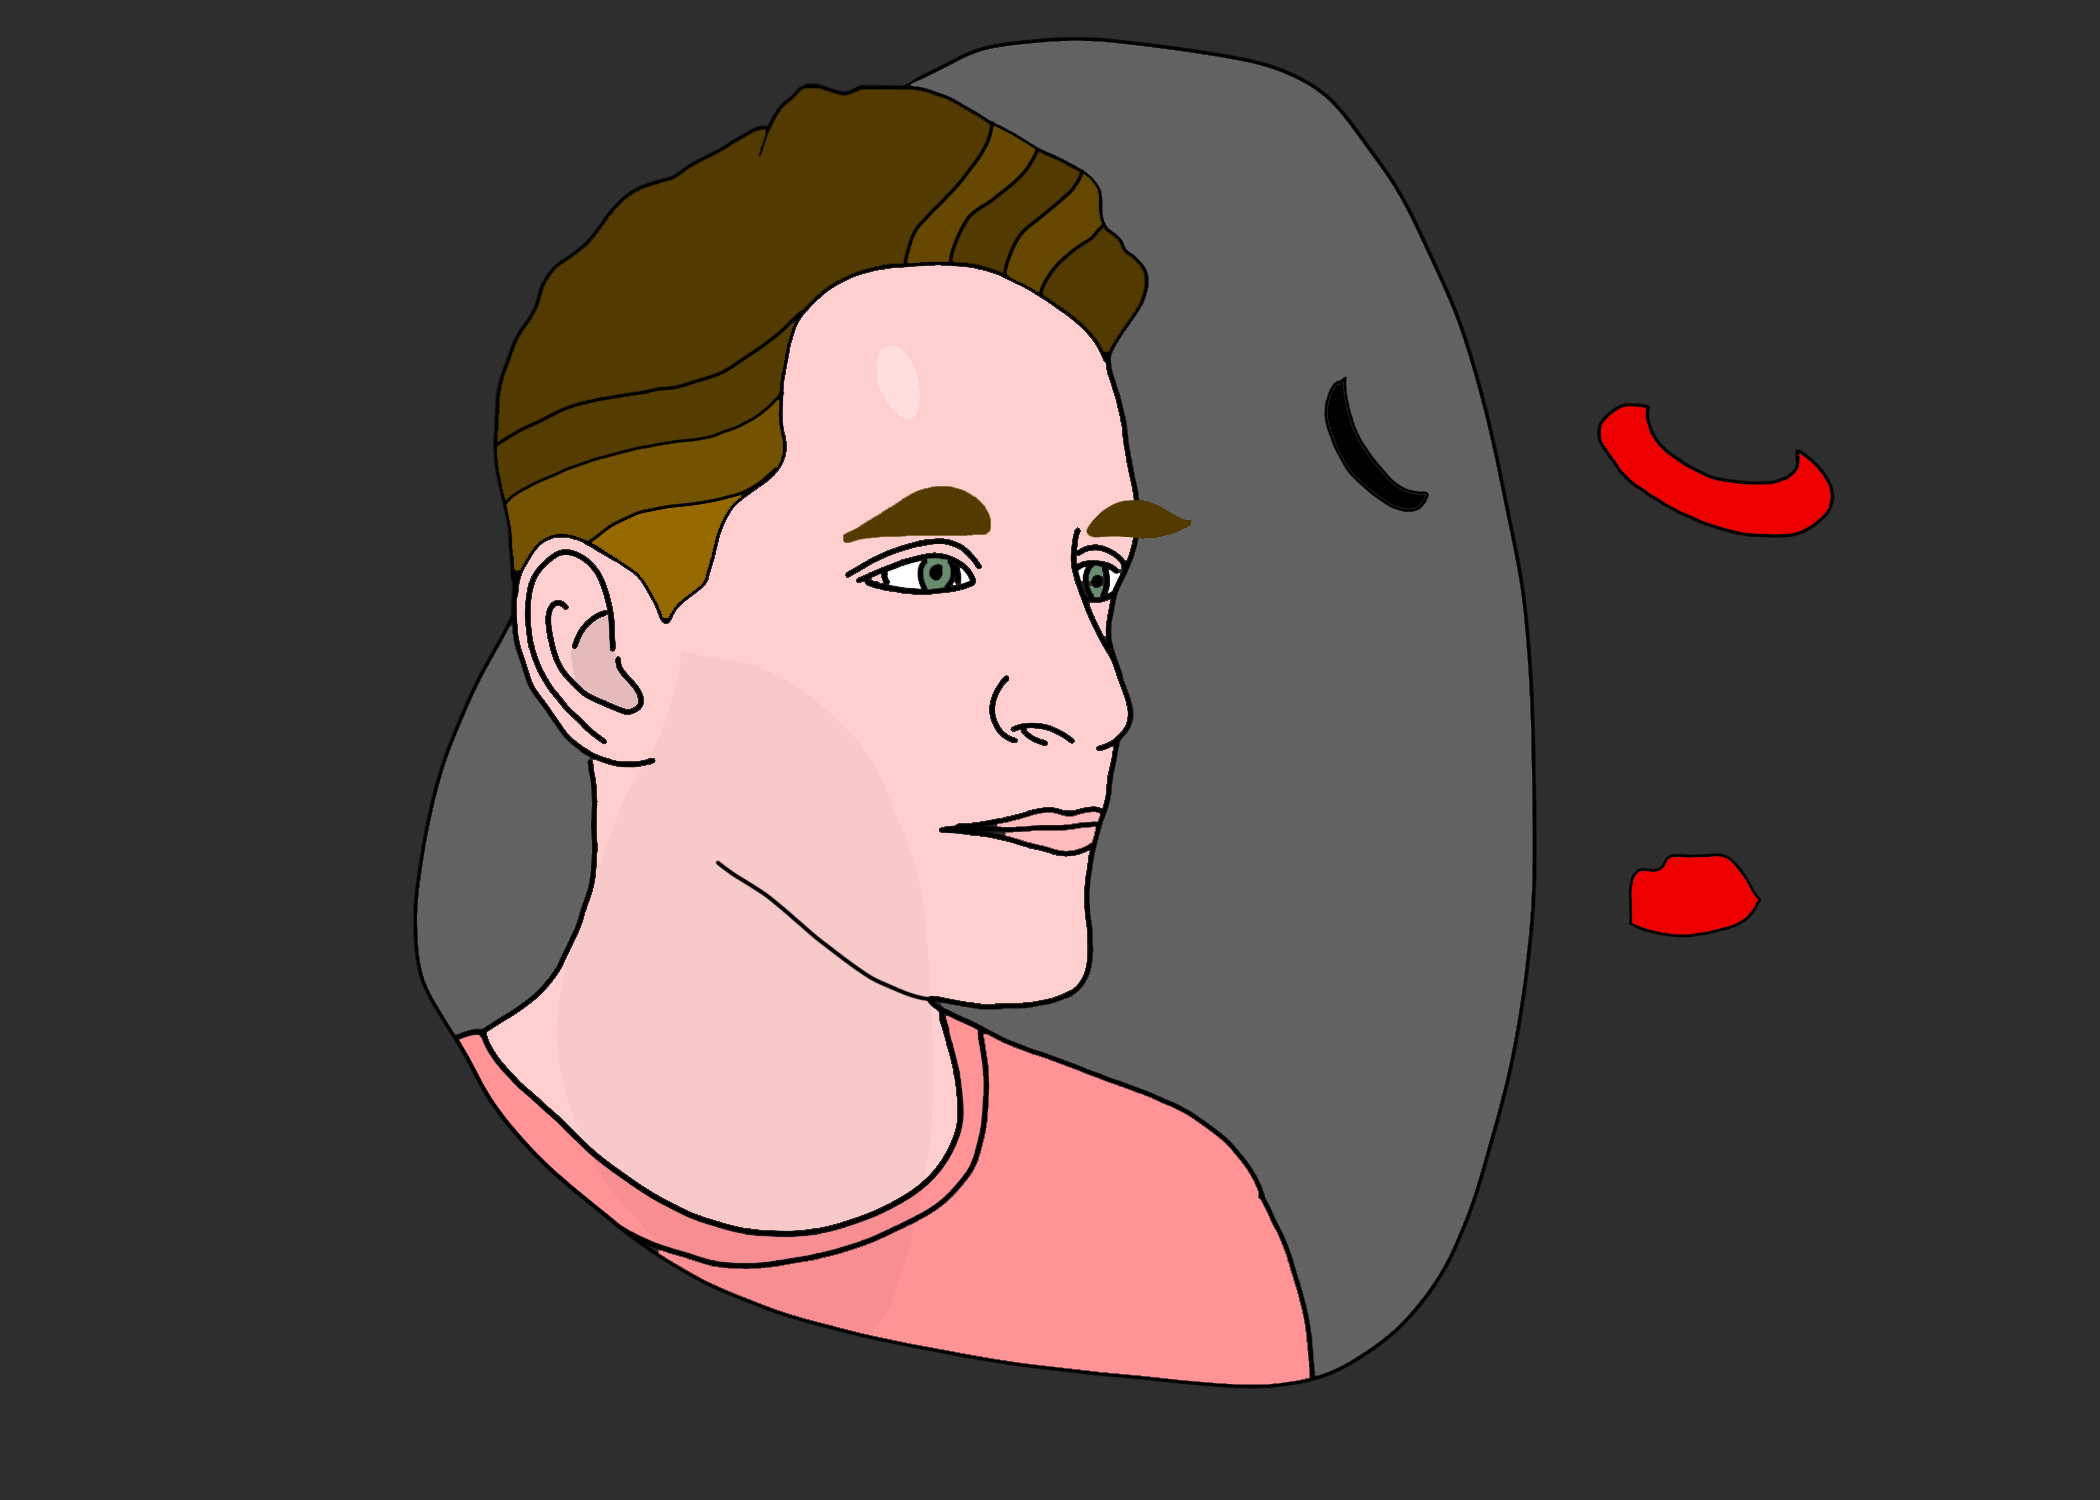
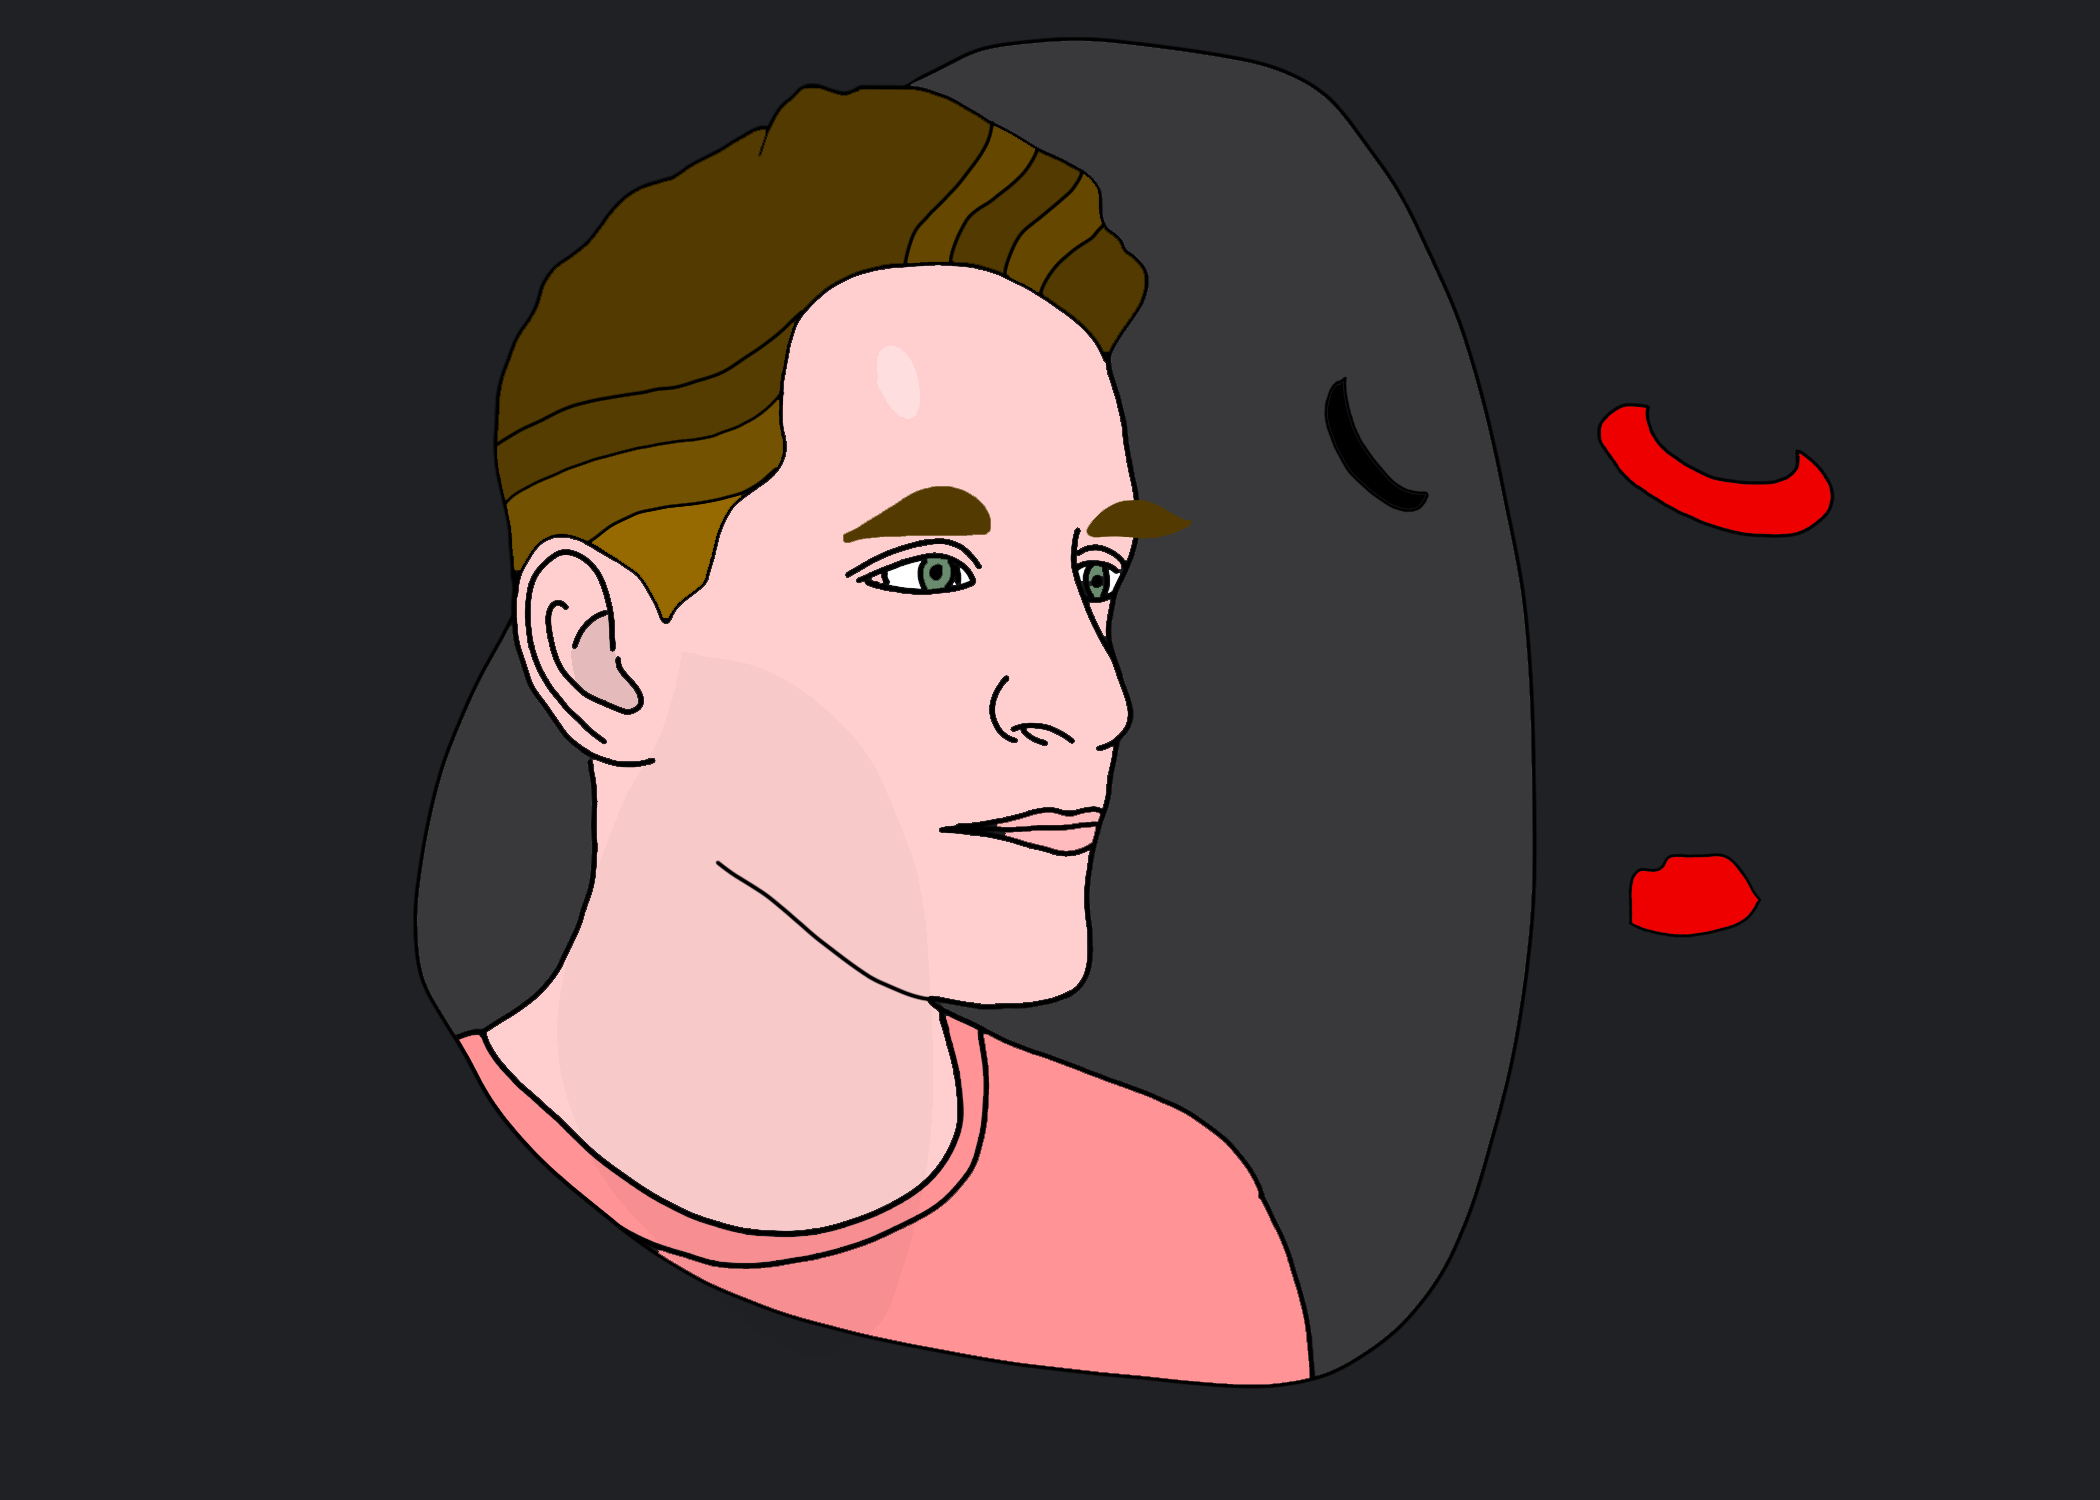
Update colours

Changed region(s): [[0.4333, 0.0307, 0.7429, 0.92], [0.1857, 0.4293, 0.2786, 0.7053]]

diff --git a/index.html b/index.html
@@ -20,19 +20,19 @@
         color: #f1f1f1;
     }
     .w3-my-black {
-        background: #212121;
+        background: #171717;
     }
     .w3-my-gray {
-        background: #2E2E2E;
+        background: #212124;
     }
     .w3-my-grad {
-        background-image: linear-gradient(#2E2E2E, black);
+        background-image: linear-gradient(#212124, #171717);
     }
 </style>
-<body class="w3-black">
+<body class="w3-my-black">
 
 <!-- Sidebar -->
-<nav class="w3-sidebar w3-bar-block w3-animate-right w3-black w3-top w3-text-light-grey w3-large" style="z-index:3;width:250px;font-weight:bold;display:none;right:0;" id="mySidebar">
+<nav class="w3-sidebar w3-bar-block w3-animate-right w3-my-gray w3-top w3-text-light-grey w3-large" style="z-index:3;width:250px;font-weight:bold;display:none;right:0;" id="mySidebar">
     <a href="javascript:void(0)" onclick="w3_close()" class="w3-bar-item w3-button w3-center w3-padding-32">CLOSE</a>
     <a href="#" onclick="w3_close()" class="w3-bar-item w3-button w3-center w3-padding-16">HOME</a>
     <a href="#about" onclick="w3_close()"
